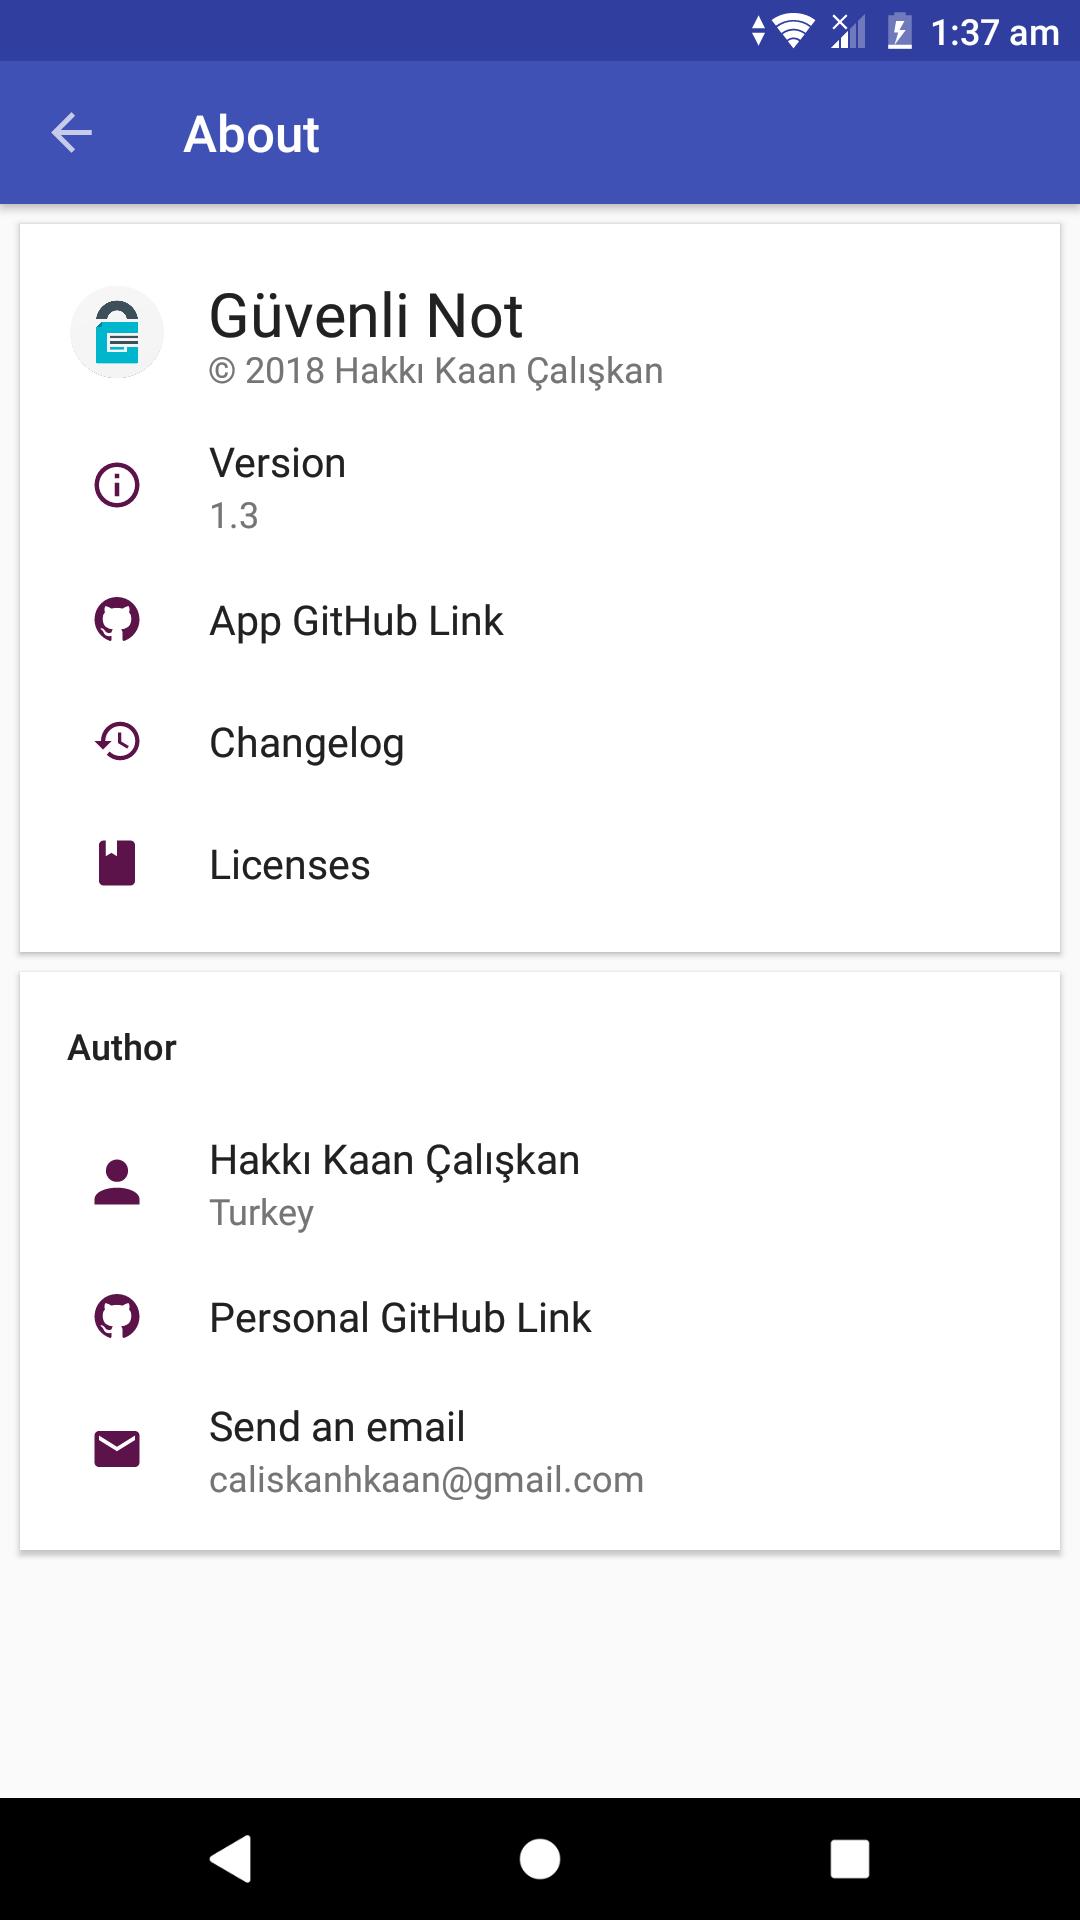
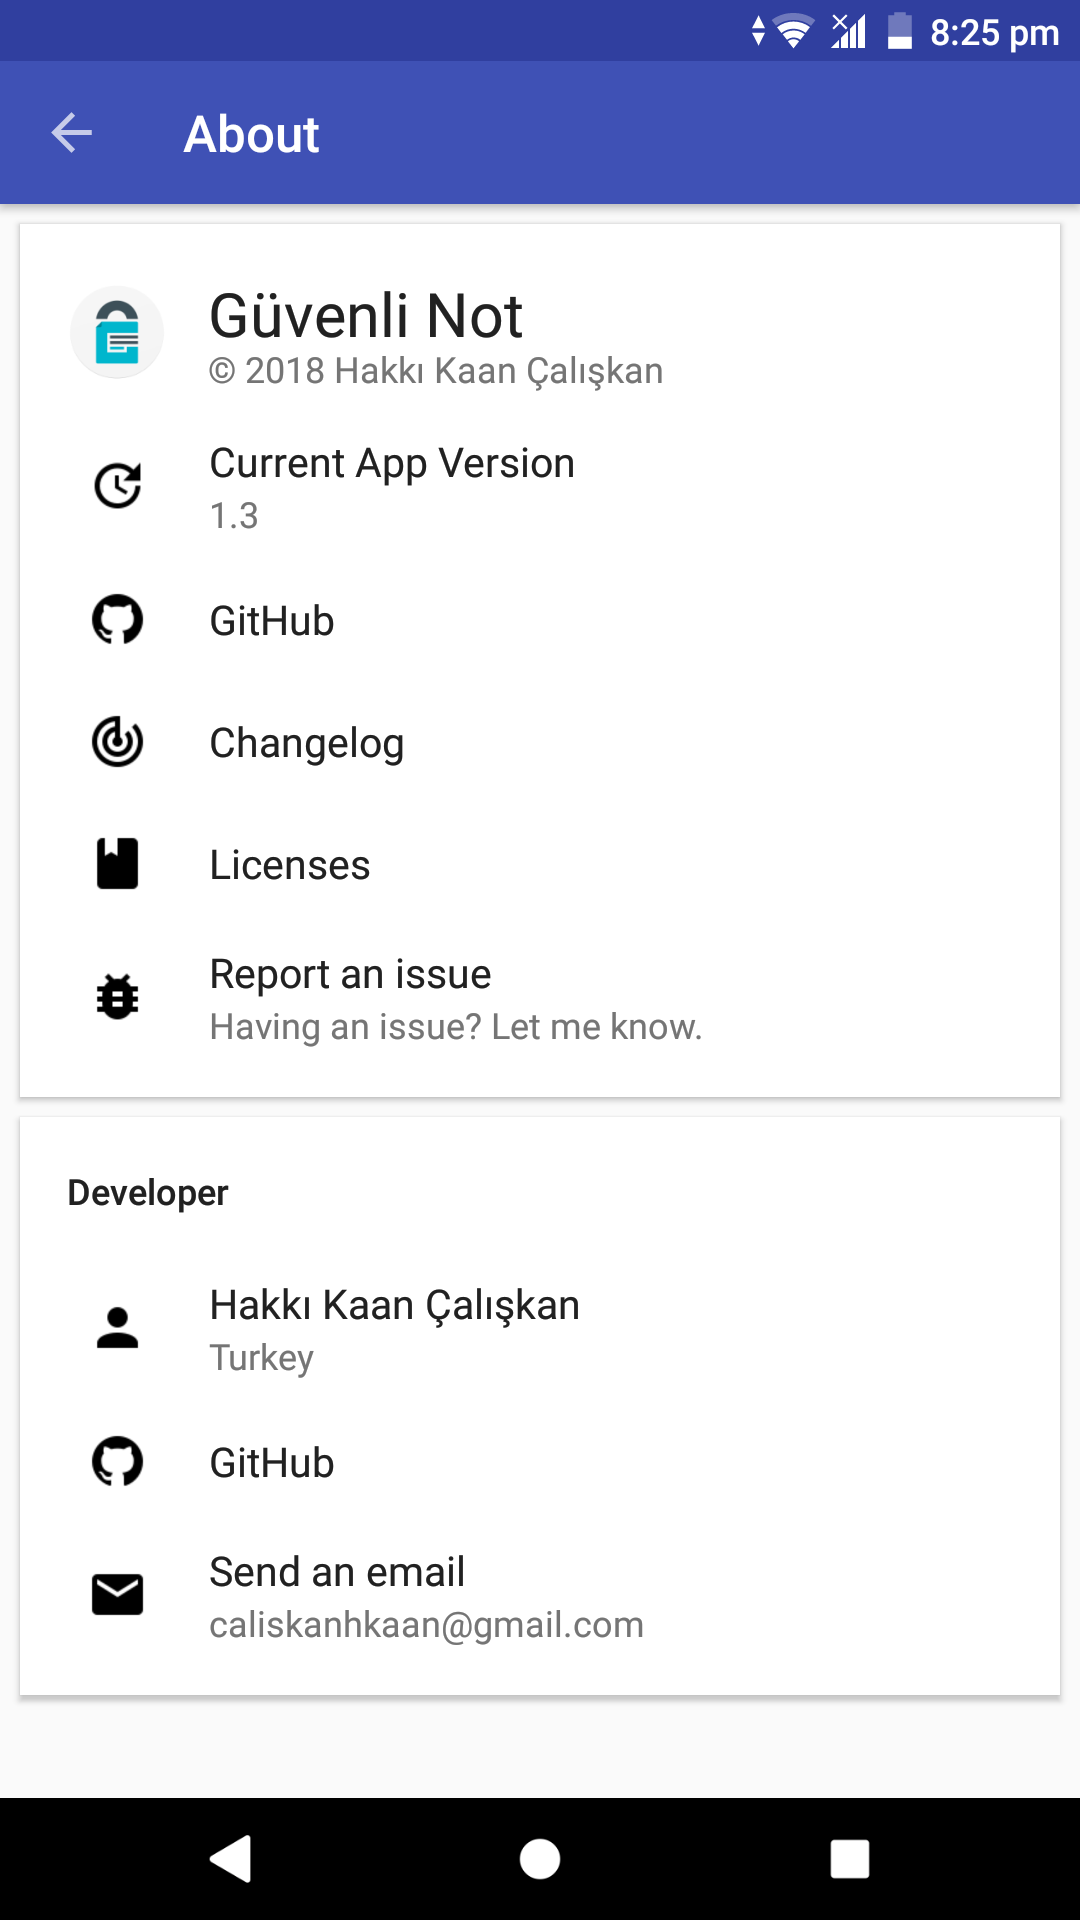
update check feature and improvements on about page
now using AppUpdater (at the same time OkHttp) and removed iconics

diff --git a/app/src/main/java/com/kaancaliskan/guvenlinot/AboutActivity.kt b/app/src/main/java/com/kaancaliskan/guvenlinot/AboutActivity.kt
@@ -8,12 +8,12 @@ import com.danielstone.materialaboutlibrary.ConvenienceBuilder
 import com.danielstone.materialaboutlibrary.MaterialAboutActivity
 import com.danielstone.materialaboutlibrary.items.MaterialAboutActionItem
 import com.danielstone.materialaboutlibrary.items.MaterialAboutTitleItem
-import com.mikepenz.community_material_typeface_library.CommunityMaterial
-import com.mikepenz.iconics.IconicsDrawable
 import com.danielstone.materialaboutlibrary.model.MaterialAboutList
 import com.danielstone.materialaboutlibrary.util.OpenSourceLicense
 import com.danielstone.materialaboutlibrary.model.MaterialAboutCard
-
+import com.github.javiersantos.appupdater.AppUpdater
+import com.github.javiersantos.appupdater.enums.Display
+import com.github.javiersantos.appupdater.enums.UpdateFrom
 /**
  * This is about activity.
  */
@@ -22,6 +22,16 @@ open class AboutActivity : MaterialAboutActivity() {
      * This function is creating about page components.
      */
     override fun getMaterialAboutList(context: Context): MaterialAboutList {
+
+        val appUpdater = AppUpdater(this)
+        appUpdater.setUpdateFrom(UpdateFrom.GITHUB)
+        appUpdater.setGitHubUserAndRepo(getString(R.string.github_user), getString(R.string.github_repo))
+        appUpdater.setDisplay(Display.SNACKBAR)
+        appUpdater.showAppUpdated(true)
+        appUpdater.setContentOnUpdateAvailable(getString(R.string.update_available))
+        appUpdater.setContentOnUpdateNotAvailable(getString(R.string.update_not_available))
+        appUpdater.setButtonUpdate(getString(R.string.button_update))
+
         val appCardBuilder = MaterialAboutCard.Builder()
 
         appCardBuilder.addItem(MaterialAboutTitleItem.Builder()
@@ -30,42 +40,39 @@ open class AboutActivity : MaterialAboutActivity() {
                 .icon(R.mipmap.ic_launcher_round)
                 .build())
 
-        appCardBuilder.addItem(ConvenienceBuilder.createVersionActionItem(context,
-                IconicsDrawable(context)
-                        .icon(CommunityMaterial.Icon2.cmd_information_outline)
-                        .color(ContextCompat.getColor(context, R.color.colorAccent))
-                        .sizeDp(18),
-                getString(R.string.version),
-                false))
+        appCardBuilder.addItem(MaterialAboutActionItem.Builder()
+                .text(getString(R.string.version))
+                .subText(BuildConfig.VERSION_NAME)
+                .icon(getDrawable(R.drawable.update))
+                .setOnClickAction { appUpdater.start() }
+                .build())
 
         appCardBuilder.addItem(MaterialAboutActionItem.Builder()
                 .text(getString(R.string.github))
-                .icon(IconicsDrawable(context)
-                        .icon(CommunityMaterial.Icon.cmd_github_circle)
-                        .color(ContextCompat.getColor(context, R.color.colorAccent))
-                        .sizeDp(18))
+                .icon(getDrawable(R.drawable.github_circle))
                 .setOnClickAction(ConvenienceBuilder.createWebsiteOnClickAction(context, Uri.parse("https://github.com/hakkikaancaliskan/guvenlinot")))
                 .build())
 
         appCardBuilder.addItem(MaterialAboutActionItem.Builder()
                 .text(getString(R.string.changelog))
-                .icon(IconicsDrawable(context)
-                        .icon(CommunityMaterial.Icon2.cmd_history)
-                        .color(ContextCompat.getColor(context, R.color.colorAccent))
-                        .sizeDp(18))
+                .icon(getDrawable(R.drawable.radar))
                 .setOnClickAction (ConvenienceBuilder.createWebViewDialogOnClickAction(context, getString(R.string.changelog), "https://github.com/hakkikaancaliskan/guvenlinot/releases", true, false))
                 .build())
 
         appCardBuilder.addItem(MaterialAboutActionItem.Builder()
                 .text(getString(R.string.licenses))
-                .icon(IconicsDrawable(context)
-                        .icon(CommunityMaterial.Icon.cmd_book)
-                        .color(ContextCompat.getColor(context, R.color.colorAccent))
-                        .sizeDp(18))
+                .icon(getDrawable(R.drawable.book))
                 .setOnClickAction {
                     val intent = Intent(context, LicenseActivity::class.java)
                     context.startActivity(intent)
                 }
+                .build())
+
+        appCardBuilder.addItem( MaterialAboutActionItem.Builder()
+                .text(R.string.report_issue)
+                .subText(R.string.report_issue_sub)
+                .icon(ContextCompat.getDrawable(context, R.drawable.bug))
+                .setOnClickAction(ConvenienceBuilder.createWebsiteOnClickAction(context, Uri.parse("https://github.com/hakkikaancaliskan/GuvenliNot/issues/new/choose")))
                 .build())
 
         val authorCardBuilder = MaterialAboutCard.Builder()
@@ -74,26 +81,17 @@ open class AboutActivity : MaterialAboutActivity() {
         authorCardBuilder.addItem(MaterialAboutActionItem.Builder()
                 .text(getString(R.string.dev_name))
                 .subText(getString(R.string.country))
-                .icon(IconicsDrawable(context)
-                        .icon(CommunityMaterial.Icon.cmd_account)
-                        .color(ContextCompat.getColor(context, R.color.colorAccent))
-                        .sizeDp(18))
+                .icon(getDrawable(R.drawable.account))
                 .build())
 
         authorCardBuilder.addItem(MaterialAboutActionItem.Builder()
                 .text(getString(R.string.github))
-                .icon(IconicsDrawable(context)
-                        .icon(CommunityMaterial.Icon.cmd_github_circle)
-                        .color(ContextCompat.getColor(context, R.color.colorAccent))
-                        .sizeDp(18))
+                .icon(getDrawable(R.drawable.github_circle))
                 .setOnClickAction(ConvenienceBuilder.createWebsiteOnClickAction(context, Uri.parse("https://github.com/hakkikaancaliskan")))
                 .build())
 
         authorCardBuilder.addItem(ConvenienceBuilder.createEmailItem(context,
-                IconicsDrawable(context)
-                        .icon(CommunityMaterial.Icon.cmd_email)
-                        .color(ContextCompat.getColor(context, R.color.colorAccent))
-                        .sizeDp(18),
+                getDrawable(R.drawable.email),
                 getString(R.string.send_mail),
                 true,
                 getString(R.string.dev_mail),
@@ -102,50 +100,54 @@ open class AboutActivity : MaterialAboutActivity() {
     }
 
     companion object {
-
+        /**
+         * This function creates our license cards.
+         */
         fun createMaterialAboutLicenseList(c: Context): MaterialAboutList {
 
             val materialAboutLibraryLicenseCard = ConvenienceBuilder.createLicenseCard(c,
-                IconicsDrawable(c)
-                        .icon(CommunityMaterial.Icon.cmd_book)
-                        .color(ContextCompat.getColor(c, R.color.colorAccent))
-                        .sizeDp(18),
-                "material-about-library", "2016", "Daniel Stone",
-                OpenSourceLicense.APACHE_2)
-
-            val androidIconicsLicenseCard = ConvenienceBuilder.createLicenseCard(c,
-                IconicsDrawable(c)
-                        .icon(CommunityMaterial.Icon.cmd_book)
-                        .color(ContextCompat.getColor(c, R.color.colorAccent))
-                        .sizeDp(18),
-                "Android Iconics", "2014", "Mike Penz",
-                OpenSourceLicense.APACHE_2)
+                    ContextCompat.getDrawable(c, R.drawable.book),
+                    "material-about-library",
+                    "2016",
+                    "Daniel Stone",
+                    OpenSourceLicense.APACHE_2)
 
             val toastyLicenseCard = ConvenienceBuilder.createLicenseCard(c,
-                IconicsDrawable(c)
-                        .icon(CommunityMaterial.Icon.cmd_book)
-                        .color(ContextCompat.getColor(c, R.color.colorAccent))
-                        .sizeDp(18),
-                "Toasty", "2017", "Daniel Morales",
-                OpenSourceLicense.GNU_GPL_3)
+                    ContextCompat.getDrawable(c, R.drawable.book),
+                    "Toasty",
+                    "2017",
+                    "Daniel Morales",
+                    OpenSourceLicense.GNU_GPL_3)
 
             val supportLibraryLicenseCard = ConvenienceBuilder.createLicenseCard(c,
-                    IconicsDrawable(c)
-                            .icon(CommunityMaterial.Icon.cmd_book)
-                            .color(ContextCompat.getColor(c, R.color.colorAccent))
-                            .sizeDp(18),
-                    "AOSP Support Library", "2011", "The Android Open Source Project",
+                    ContextCompat.getDrawable(c, R.drawable.book),
+                    "AOSP Support Libraries",
+                    "2011",
+                    "The Android Open Source Project",
                     OpenSourceLicense.APACHE_2)
 
             val kotlinLicenseCard = ConvenienceBuilder.createLicenseCard(c,
-                    IconicsDrawable(c)
-                            .icon(CommunityMaterial.Icon.cmd_book)
-                            .color(ContextCompat.getColor(c, R.color.colorAccent))
-                            .sizeDp(18),
-                    "Kotlin Library", "2010", "JetBrains s.r.o",
+                    ContextCompat.getDrawable(c, R.drawable.book),
+                    "Kotlin",
+                    "2010",
+                    "JetBrains s.r.o",
                     OpenSourceLicense.APACHE_2)
 
-        return MaterialAboutList(materialAboutLibraryLicenseCard, androidIconicsLicenseCard, toastyLicenseCard, supportLibraryLicenseCard, kotlinLicenseCard)
+            val appUpdaterLicenseCard = ConvenienceBuilder.createLicenseCard(c,
+                    ContextCompat.getDrawable(c, R.drawable.book),
+                    "AppUpdater",
+                    "2016",
+                    "Javier Santos",
+                    OpenSourceLicense.APACHE_2)
+
+            val okHttpLicenseCard = ConvenienceBuilder.createLicenseCard(c,
+                    ContextCompat.getDrawable(c, R.drawable.book),
+                    "OkHttp",
+                    "2012",
+                    "Jesse Wilson",
+                    OpenSourceLicense.APACHE_2)
+
+        return MaterialAboutList(materialAboutLibraryLicenseCard, toastyLicenseCard, supportLibraryLicenseCard, kotlinLicenseCard, appUpdaterLicenseCard, okHttpLicenseCard)
     }}
     /**
      * This function names the activity.

diff --git a/README.md b/README.md
@@ -1,4 +1,4 @@
-<h1 align=center>
+<h1 align=center>
 <img src="Logo/horizontal.png" width=60%>
 </h1>
 
@@ -17,9 +17,10 @@ Default password is 1234. You can change in app.
 
 - [Toasty](https://github.com/GrenderG/Toasty) for error/success messages
 - [material-about-library](https://github.com/daniel-stoneuk/material-about-library) for beautiful about page
-- [Android Iconics](https://github.com/mikepenz/Android-Iconics) for icons
-- [Kotlin](https://github.com/JetBrains/kotlin) written in Kotlin
-- **Android Support Library**, of course
+- [Kotlin](https://github.com/JetBrains/kotlin) app is written in Kotlin
+- [AppUpdater](https://github.com/javiersantos/AppUpdater) for update checks
+- [OkHttp](https://github.com/square/okhttp) to help AppUpdater
+- **Android Support Libraries**, of course
 
 ## Screenshots
 
